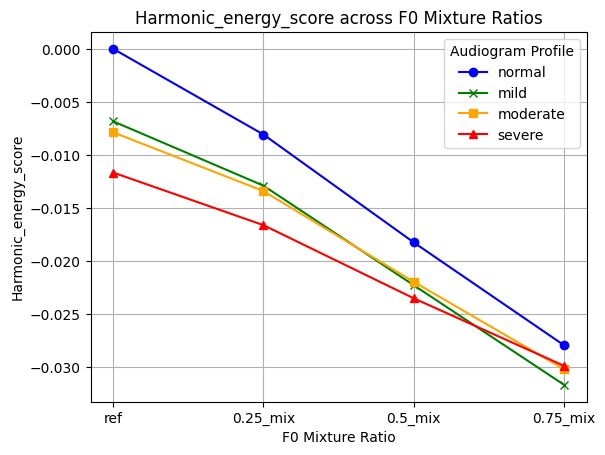
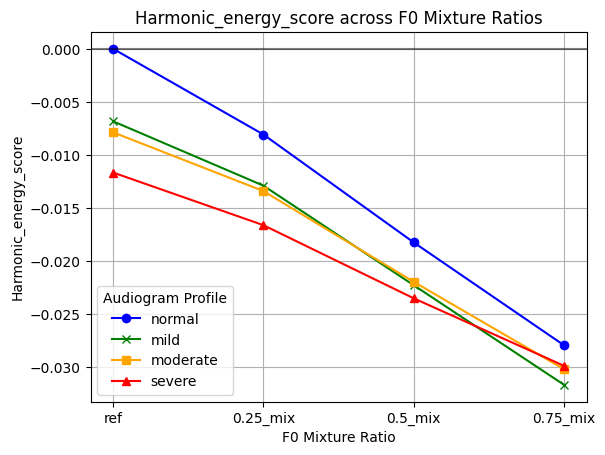
Minor graph adjustments

diff --git a/analyze-results.py b/analyze-results.py
@@ -224,6 +224,10 @@ def create_graph_for_feature(data: pd.DataFrame, feature: str, folder: pathlib.P
         
         # Plot
         plt.plot(profile_data['f0_ratio'], profile_data[feature], marker=marker, color=color, label=profile)
+    
+    if feature in ['voiced_probabilities_score', 'spectral_flatness_score', 'harmonic_energy_score']:
+        # Emphasize the 0 line on the y-axis
+        plt.axhline(0, color='black', linewidth=1.5, linestyle='-', alpha=0.5)
 
     # Adding graph elements
     plt.title(f'{feature.capitalize()} across F0 Mixture Ratios')
